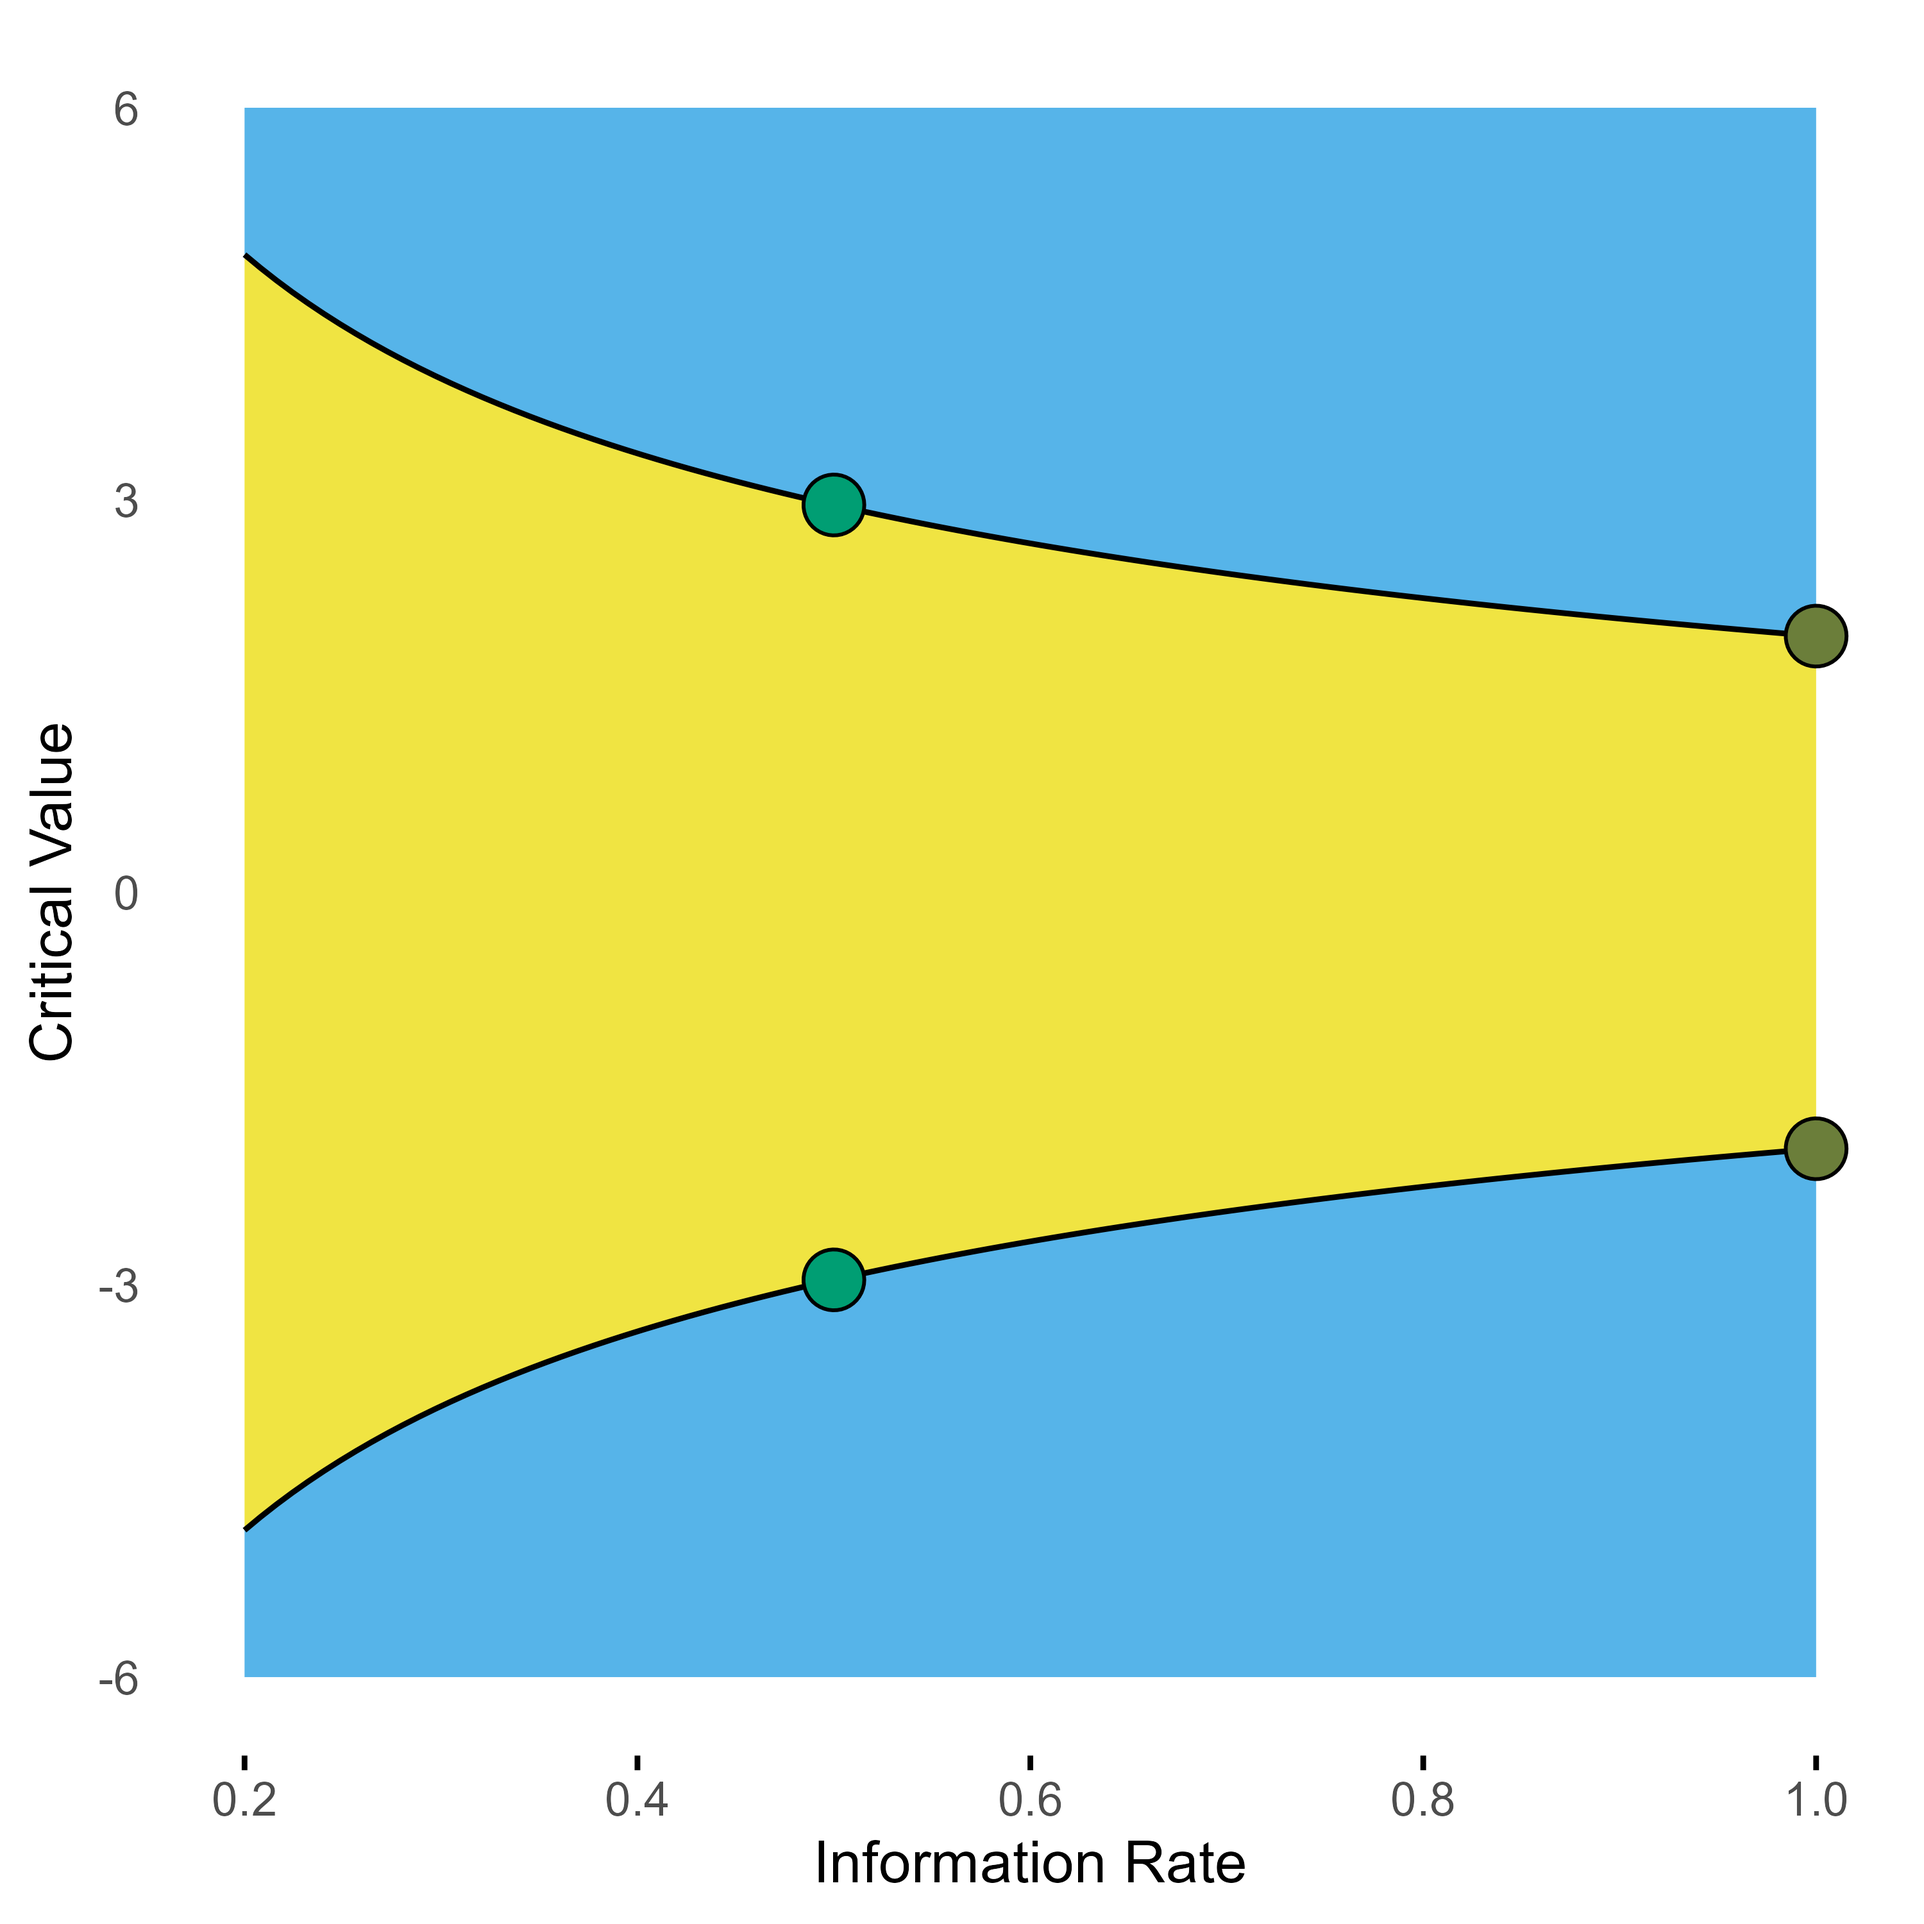
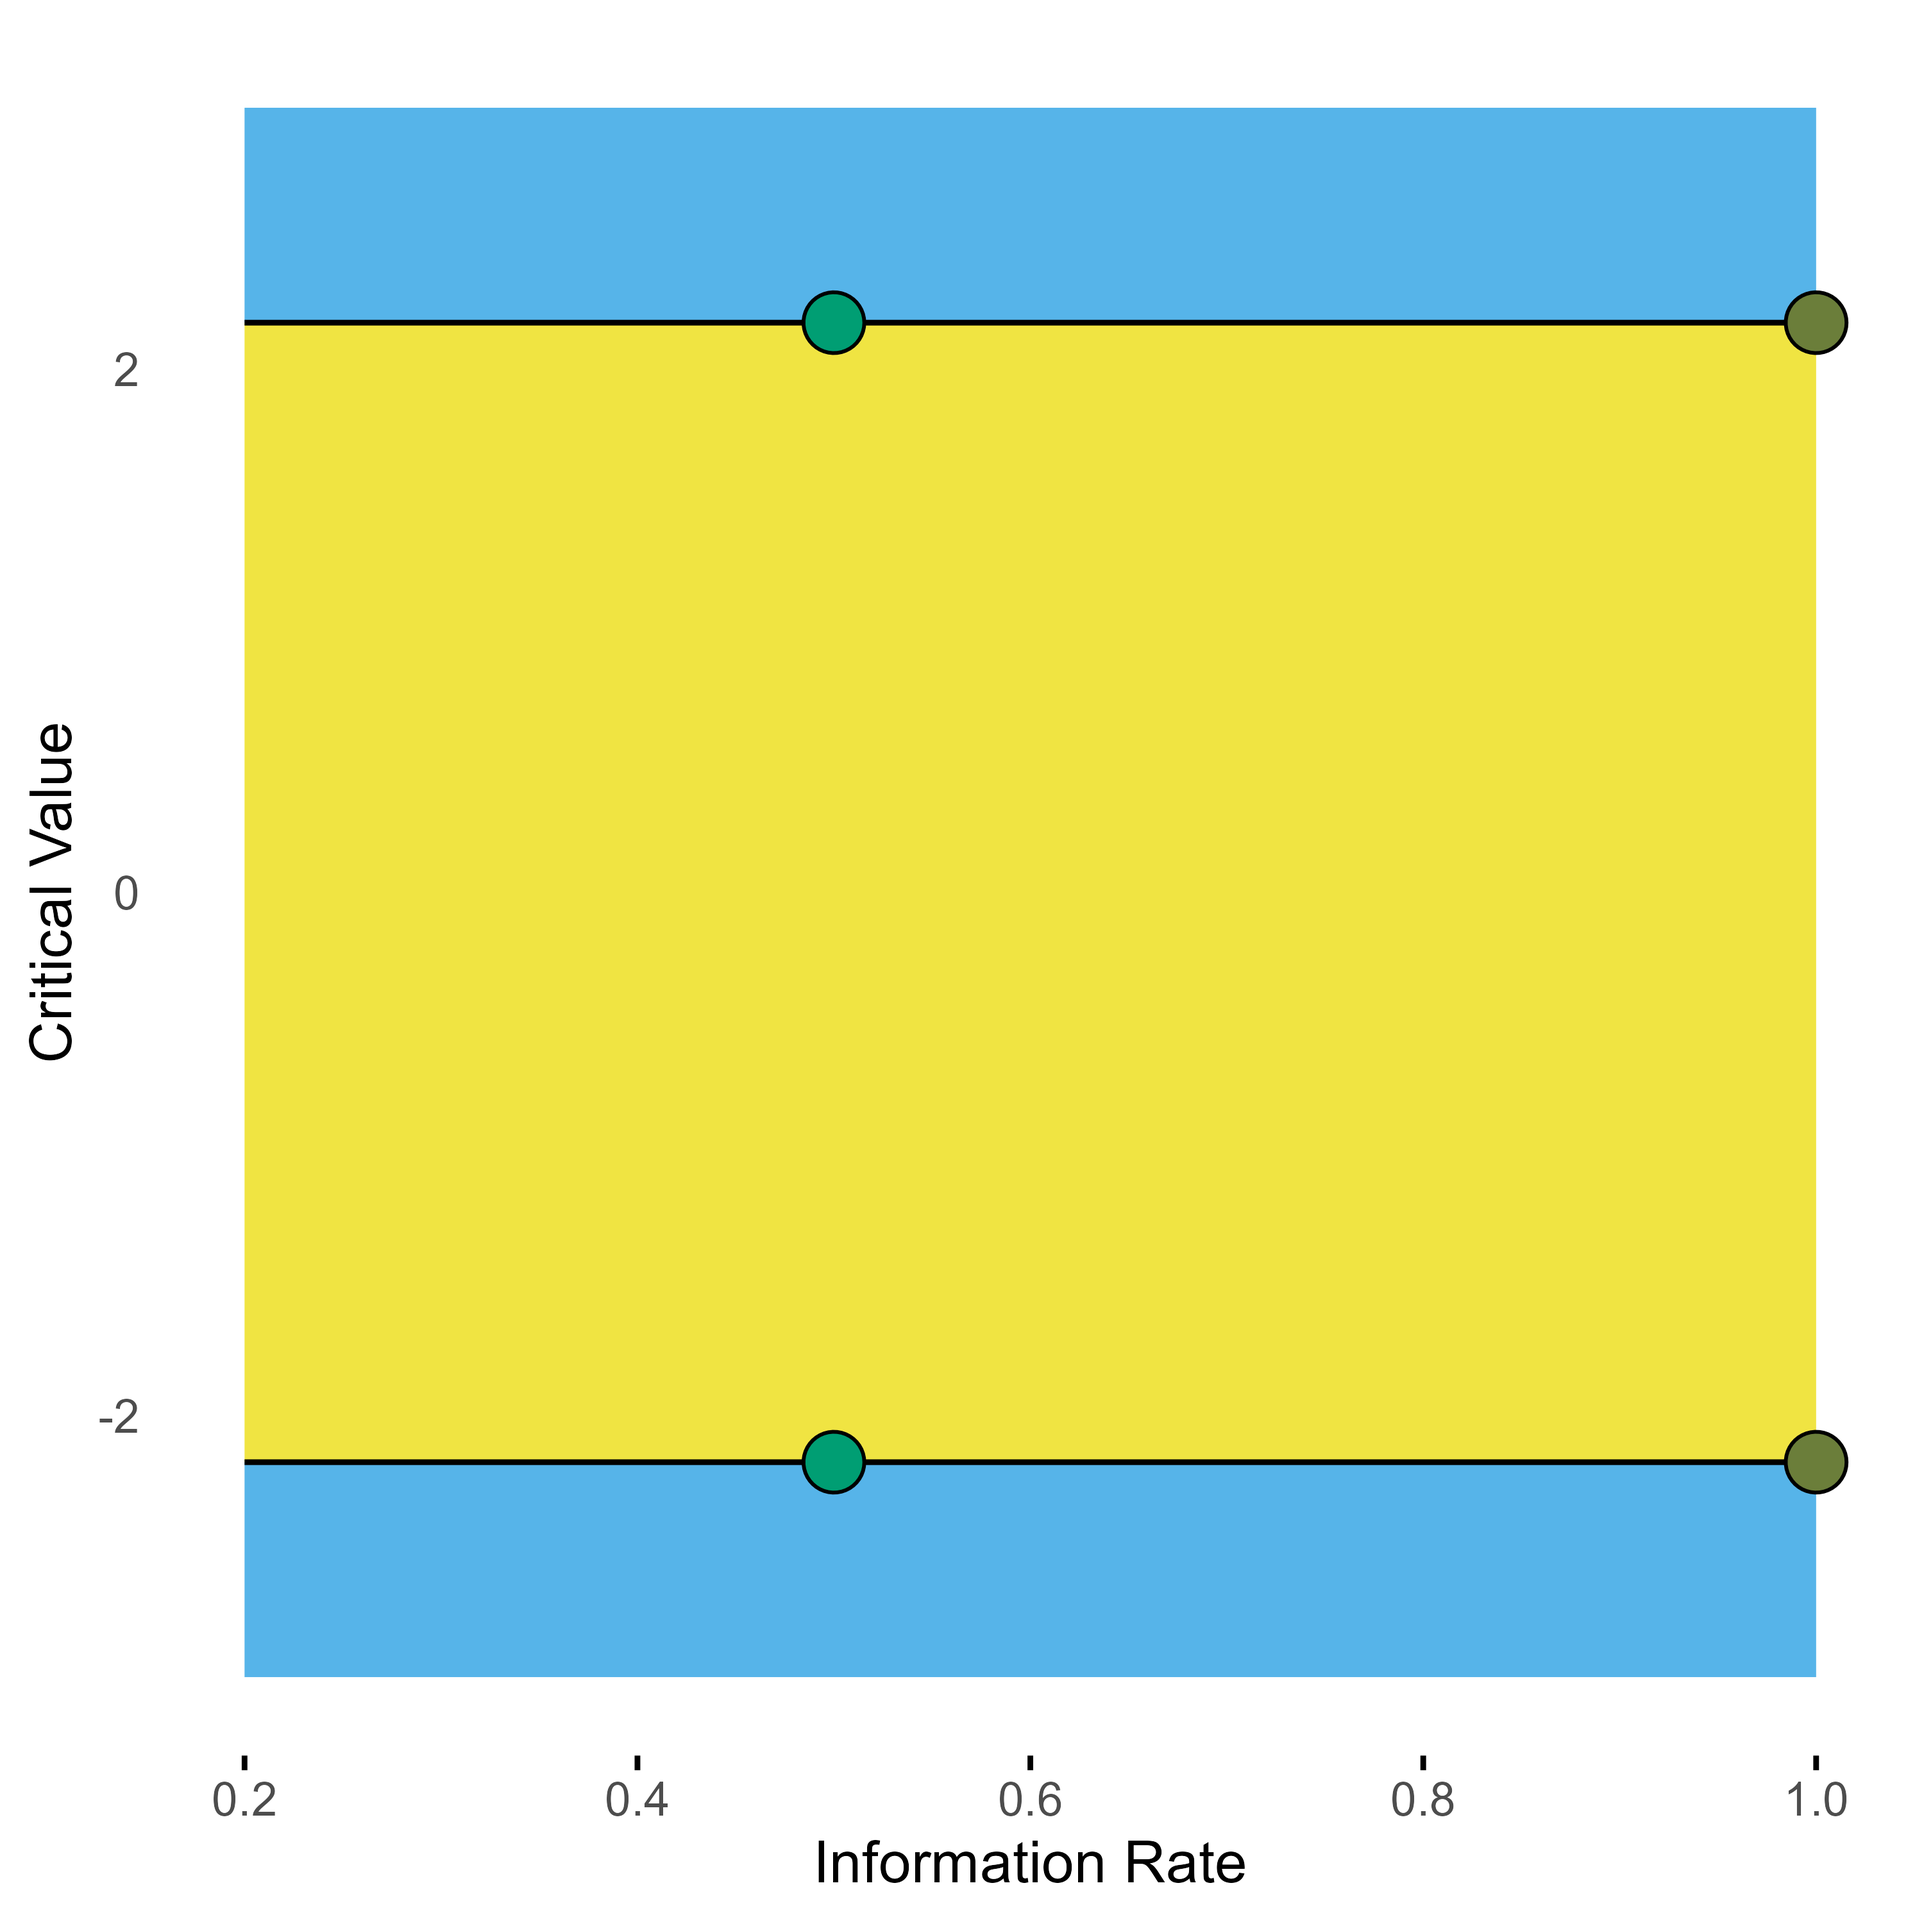
Add addtional sample scheme graph in vignette 'understanding gs'

Changed region(s): [[0.124, 0.558, 0.961, 0.806], [0.124, 0.124, 0.961, 0.372]]

diff --git a/docs/articles/understanding-gs-designs.html b/docs/articles/understanding-gs-designs.html
@@ -224,21 +224,24 @@ Standard Normal Density with critial bounds marking 5% significance level.
 <h3 class="hasAnchor">
 <a href="#group-sequential-study" class="anchor"></a>Group sequential study</h3>
 <p>In a (group) sequential study design, samples are analyzed in a sequence where at each stage all the data from earlier stages are combined with the data of the current stage.</p>
+<p>For example, in the first stage we collect a sample <code>X1</code> and in a second stage we combine the sample <code>X1</code> with a new sample <code>X2</code>.</p>
+<p><img src="understanding-gs-designs_files/figure-html/unnamed-chunk-14-1.png" width="35%" style="display: block; margin: auto;"></p>
+<p>The crucial difference when combining the samples in this way is that now they are inherently dependent, that is, the statistic of sample <code>X1 + X2</code> will be correlated to the that of sample <code>X1</code>.</p>
+<p>With this in mind, the graphical presentation below is more precise to visualize the data sample setup.</p>
 <div class="figure" style="text-align: center">
-<img src="understanding-gs-designs_files/figure-html/unnamed-chunk-14-1.png" alt="Schematic view of group sequential two-stage study." width="35%"><p class="caption">
+<img src="understanding-gs-designs_files/figure-html/unnamed-chunk-15-1.png" alt="Schematic view of group sequential two-stage study." width="35%"><p class="caption">
 Schematic view of group sequential two-stage study.
 </p>
 </div>
-<p>The crucial difference when combining the samples in this way is that now they are inherently dependent, that is, the statistic of sample <code>X1 + X2</code> will be correlated to the that of sample <code>X1</code>.</p>
 <p>The naive approach for the alpha adjustment again would be to treat both density distributions as independent and apply the Bonferroni correction.</p>
 <div class="figure">
-<img src="understanding-gs-designs_files/figure-html/unnamed-chunk-15-1.png" alt="Normal densities for stage 1 and 2 with Bonferroni bounds." width="85%"><p class="caption">
+<img src="understanding-gs-designs_files/figure-html/unnamed-chunk-16-1.png" alt="Normal densities for stage 1 and 2 with Bonferroni bounds." width="85%"><p class="caption">
 Normal densities for stage 1 and 2 with Bonferroni bounds.
 </p>
 </div>
 <p>Since this completely ignores the correlation, we expect that even more alpha is wasted. To see this let’s now again use the two-dimensional distribution.</p>
 <div class="figure">
-<img src="understanding-gs-designs_files/figure-html/unnamed-chunk-17-1.png" alt="Bivariate normal density of two-stage design viewed from different angles." width="30%"><img src="understanding-gs-designs_files/figure-html/unnamed-chunk-17-2.png" alt="Bivariate normal density of two-stage design viewed from different angles." width="30%"><img src="understanding-gs-designs_files/figure-html/unnamed-chunk-17-3.png" alt="Bivariate normal density of two-stage design viewed from different angles." width="30%"><p class="caption">
+<img src="understanding-gs-designs_files/figure-html/unnamed-chunk-18-1.png" alt="Bivariate normal density of two-stage design viewed from different angles." width="30%"><img src="understanding-gs-designs_files/figure-html/unnamed-chunk-18-2.png" alt="Bivariate normal density of two-stage design viewed from different angles." width="30%"><img src="understanding-gs-designs_files/figure-html/unnamed-chunk-18-3.png" alt="Bivariate normal density of two-stage design viewed from different angles." width="30%"><p class="caption">
 Bivariate normal density of two-stage design viewed from different angles.
 </p>
 </div>
@@ -255,7 +258,7 @@ Bivariate normal density of two-stage design viewed from different angles.
 <p>Inspecting the probabilities stage by stage, 2.93% of alpha is spent at the first and 2.04% at the second stage, respectively. That is, although the nominal bounds are identical at both stages, due to the asymmetric shape of the two-dimensional distribution, the resulting probabilities are different.</p>
 <p>The graphical presentation of group sequential designs normally is done with a graph showing at the x-axis the “Information Rate”, which marks the relative sample size of the respective stages, and the nominal bounds at the y-axis. The above Pocock design thus looks something like this.</p>
 <div class="figure">
-<img src="understanding-gs-designs_files/figure-html/unnamed-chunk-22-1.png" alt="Group sequential 2-stage Pocock design with one interim look at half of the total samples." width="50%"><p class="caption">
+<img src="understanding-gs-designs_files/figure-html/unnamed-chunk-23-1.png" alt="Group sequential 2-stage Pocock design with one interim look at half of the total samples." width="50%"><p class="caption">
 Group sequential 2-stage Pocock design with one interim look at half of the total samples.
 </p>
 </div>
@@ -265,7 +268,7 @@ Group sequential 2-stage Pocock design with one interim look at half of the tota
 <a href="#obrien-fleming-design" class="anchor"></a>O’Brien-Fleming design</h4>
 <p>Probably the most popular group sequential design is the O’Brien-Fleming design. For our two-stage scenario with half of the sample used in each stage, it looks like this.</p>
 <div class="figure">
-<img src="understanding-gs-designs_files/figure-html/unnamed-chunk-23-1.png" alt="Group sequential 2-stage O'Brien-Fleming design with one interim look at 0.5." width="50%"><p class="caption">
+<img src="understanding-gs-designs_files/figure-html/unnamed-chunk-24-1.png" alt="Group sequential 2-stage O'Brien-Fleming design with one interim look at 0.5." width="50%"><p class="caption">
 Group sequential 2-stage O’Brien-Fleming design with one interim look at 0.5.
 </p>
 </div>
@@ -280,13 +283,13 @@ Group sequential 2-stage O’Brien-Fleming design with one interim look at 0.5.
 <a href="#design-comparisons" class="anchor"></a>Design comparisons</h4>
 <p>To strengthen our intuitive understanding, let’s compare the Pocock and O’Brien-Fleming design in the two-dimensional density view.</p>
 <div class="figure">
-<img src="understanding-gs-designs_files/figure-html/unnamed-chunk-25-1.png" alt="Bivariate normal density with critical bounds of Pocock (left) and O'Brien-Fleming design (right) both with interim analysis after 50% of the sample." width="45%"><img src="understanding-gs-designs_files/figure-html/unnamed-chunk-25-2.png" alt="Bivariate normal density with critical bounds of Pocock (left) and O'Brien-Fleming design (right) both with interim analysis after 50% of the sample." width="45%"><p class="caption">
+<img src="understanding-gs-designs_files/figure-html/unnamed-chunk-26-1.png" alt="Bivariate normal density with critical bounds of Pocock (left) and O'Brien-Fleming design (right) both with interim analysis after 50% of the sample." width="45%"><img src="understanding-gs-designs_files/figure-html/unnamed-chunk-26-2.png" alt="Bivariate normal density with critical bounds of Pocock (left) and O'Brien-Fleming design (right) both with interim analysis after 50% of the sample." width="45%"><p class="caption">
 Bivariate normal density with critical bounds of Pocock (left) and O’Brien-Fleming design (right) both with interim analysis after 50% of the sample.
 </p>
 </div>
 <p>The figure below shows how the time point of the stage 1 analysis affects the correlation of the stages and with that shapes the design probabilities.</p>
 <div class="figure">
-<img src="understanding-gs-designs_files/figure-html/unnamed-chunk-26-1.png" alt="Bivariate normal density of two-stage O'Brien-Fleming design with first stage after 50% (left), 70% (middle) and 90% (right) of all samples." width="30%"><img src="understanding-gs-designs_files/figure-html/unnamed-chunk-26-2.png" alt="Bivariate normal density of two-stage O'Brien-Fleming design with first stage after 50% (left), 70% (middle) and 90% (right) of all samples." width="30%"><img src="understanding-gs-designs_files/figure-html/unnamed-chunk-26-3.png" alt="Bivariate normal density of two-stage O'Brien-Fleming design with first stage after 50% (left), 70% (middle) and 90% (right) of all samples." width="30%"><p class="caption">
+<img src="understanding-gs-designs_files/figure-html/unnamed-chunk-27-1.png" alt="Bivariate normal density of two-stage O'Brien-Fleming design with first stage after 50% (left), 70% (middle) and 90% (right) of all samples." width="30%"><img src="understanding-gs-designs_files/figure-html/unnamed-chunk-27-2.png" alt="Bivariate normal density of two-stage O'Brien-Fleming design with first stage after 50% (left), 70% (middle) and 90% (right) of all samples." width="30%"><img src="understanding-gs-designs_files/figure-html/unnamed-chunk-27-3.png" alt="Bivariate normal density of two-stage O'Brien-Fleming design with first stage after 50% (left), 70% (middle) and 90% (right) of all samples." width="30%"><p class="caption">
 Bivariate normal density of two-stage O’Brien-Fleming design with first stage after 50% (left), 70% (middle) and 90% (right) of all samples.
 </p>
 </div>
